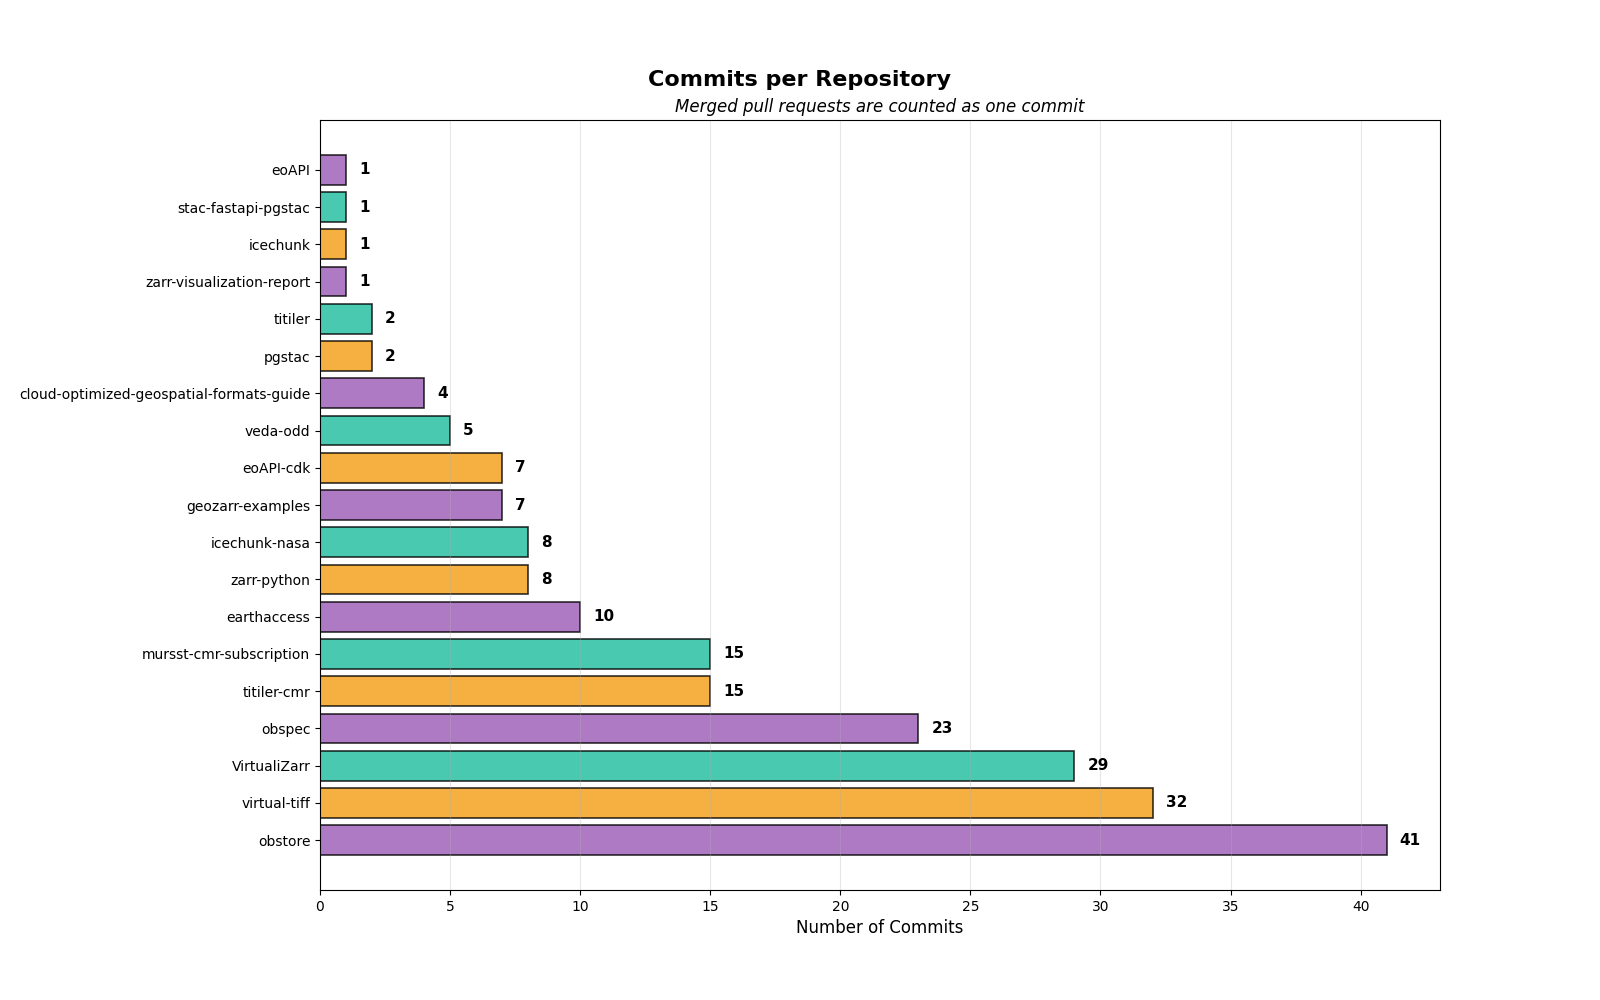
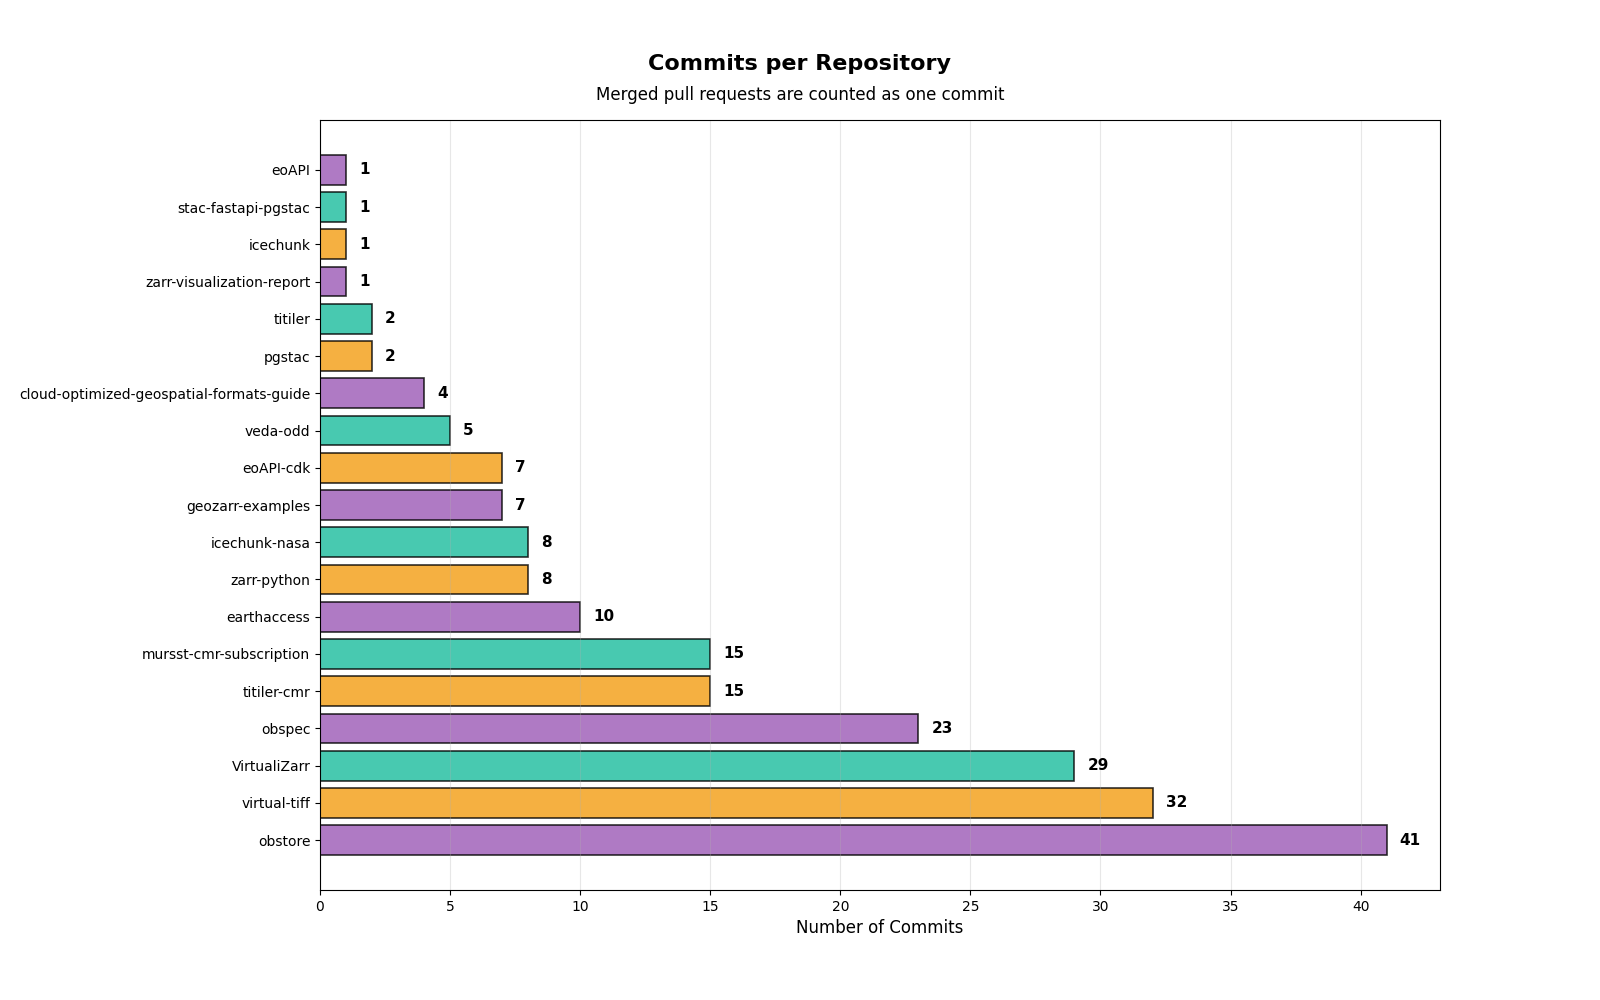
Update plot

Changed region(s): [[0.375, 0.031, 0.6875, 0.124]]

diff --git a/reports/plot.py b/reports/plot.py
@@ -26,23 +26,29 @@ def main():
         ax.text(
             v + 0.5, i, str(v), ha="left", va="center", fontweight="bold", fontsize=11
         )
-
-    fig.suptitle(
+    plt.subplots_adjust(left=0.2)
+    # Bold title
+    fig.text(
+        0.5,
+        0.93,
         "Commits per Repository",
         fontsize=16,
         fontweight="bold",
         horizontalalignment="center",
-        x=0.5,
-        y=0.93,
+        transform=fig.transFigure,
     )
-    ax.set_title(
+
+    # Regular subtitle
+    fig.text(
+        0.5,
+        0.90,
         "Merged pull requests are counted as one commit",
         fontsize=12,
-        style="italic",
+        style="normal",
         horizontalalignment="center",
-        x=0.5,
+        transform=fig.transFigure,
     )
-    plt.subplots_adjust(left=0.2)
+
     plt.savefig(f"output/{QUARTER_START}-{QUARTER_END}_commits_per_repo_hist.png")
 
 
